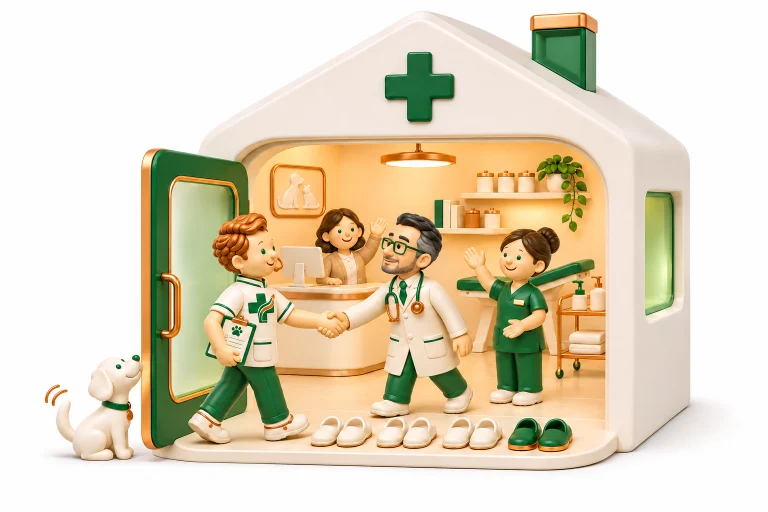
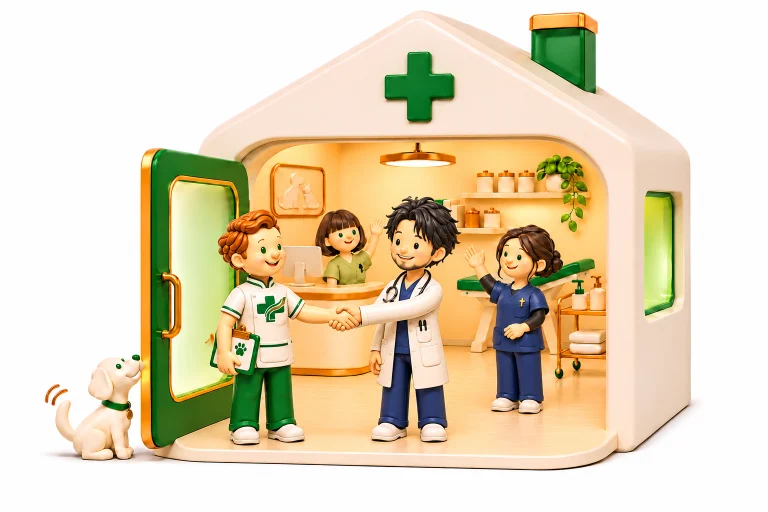
挿絵の人物を紹介動画の登場人物にそろえる（パズル・初出勤の朝・ビジョン・導入の流れ）

diff --git a/index.html b/index.html
@@ -255,7 +255,7 @@ body::before{content:"";position:fixed;inset:0 0 auto;height:env(safe-area-inset
 </section>
 
 <div id="after"></div>
-<section class="sec white"><div class="wrap"><div class="kick">Effect</div><h2>誰の、<em>何が減る</em>のか</h2><p class="intro">雑務が減れば、それぞれが本業に向き合えます。導入病院で実際に変わったことです。</p><div class="grid g3"><div class="box spot role r1"><div class="robj"><img src="assets/img/roles/vet.webp" alt="" width="180" height="180" loading="lazy"></div><div class="rhead"><span class="no">01</span><div class="who r1">Veterinarian</div></div><h3>獣医師</h3><p>話すだけでカルテと要点の下書き。健診や歯科の報告書の下書きができ、家でも仕上げられる。</p></div><div class="box spot role r2"><div class="robj"><img src="assets/img/roles/nurse.webp" alt="" width="180" height="180" loading="lazy"></div><div class="rhead"><span class="no">02</span><div class="who r2">Nurse</div></div><h3>動物看護師</h3><p>入院の記録と治療シートをタブレットで。電話の予約が減り、LINE へ案内できる。</p></div><div class="box spot role r3"><div class="robj"><img src="assets/img/roles/reception.webp" alt="" width="180" height="180" loading="lazy"></div><div class="rhead"><span class="no">03</span><div class="who r3">Reception</div></div><h3>受付</h3><p>予約表と電子カルテを別々に管理しない。来院の受付も同じ画面で。初診の登録は、来院前の LINE と問診で済んでいる。</p></div><div class="box spot role r4"><div class="robj"><img src="assets/img/roles/groomer.webp" alt="" width="180" height="180" loading="lazy"></div><div class="rhead"><span class="no">04</span><div class="who r4">Groomer</div></div><h3>トリマー</h3><p>ホテルの予約と預かりをアプリで管理。トリミング・ホテルの電話予約が減る。</p></div><div class="box spot role r5"><div class="robj"><img src="assets/img/roles/owner.webp" alt="" width="180" height="180" loading="lazy"></div><div class="rhead"><span class="no">05</span><div class="who r5">Owner</div></div><h3>飼い主さん</h3><p>LINE でいつでも予約できる。検査結果や手術の写真をマイページで受け取れる。</p></div><div class="box spot role r6"><div class="robj"><img src="assets/img/roles/director.webp" alt="" width="180" height="180" loading="lazy"></div><div class="rhead"><span class="no">06</span><div class="who r6">Director</div></div><h3>院長</h3><p>スタッフの勤怠の集計がアプリでできる。売上と経営の数字を画面で見られる。</p></div></div><a class="more" href="effect.html">導入の効果を詳しく見る</a></div></section><section class="sec "><div class="wrap"><div class="kick">Screens</div><h2>実際の画面を、<em>見てください</em></h2><p class="intro">導入病院で毎日使っている画面です。指で横に動かすか、上の名前を押すと切り替わります。</p><div class="tour"><div class="tabs" role="tablist"><span class="ink"></span><button type="button" role="tab" aria-selected="false">予約と受付</button><button type="button" role="tab" aria-selected="false">電子カルテ</button><button type="button" role="tab" aria-selected="false">音声カルテ</button><button type="button" role="tab" aria-selected="false">画像</button><button type="button" role="tab" aria-selected="false">飼い主さんへ</button><button type="button" role="tab" aria-selected="false">勤怠</button><button type="button" role="tab" aria-selected="false">在庫</button></div><div class="panes"><div class="pane" role="tabpanel"><div><div class="kick">予約と受付</div><h3>電話を取らずに、予約が埋まっていく</h3><p>飼い主さんが LINE から24時間予約。受ける内容と日にち・時間を選ぶだけで、病院の予約表に入ります。</p><span class="tagline">画面は見本のデータです</span></div><div class="shot"><div class="phone-f"><img src="assets/img/screens/v-book.webp" alt="予約と受付の画面" loading="lazy"></div></div></div><div class="pane" role="tabpanel"><div><div class="kick">電子カルテ</div><h3>1頭のすべてが、1画面に</h3><p>持病、体重の推移、ペット保険、予防の時期、トリマーからの申し送り。今日のカルテは録音から下書きでき、経過・検査・画像・書類は右側にまとまっています。</p><span class="tagline">見本の患者（ラマルク）</span></div><div class="shot"><div class="browser"><div class="bar"><i></i><i></i><i></i></div><img src="assets/img/screens/v-emr.webp" alt="電子カルテの画面" loading="lazy"></div></div></div><div class="pane" role="tabpanel"><div><div class="kick">音声カルテ</div><h3>話すだけで、カルテの下書き</h3><p>診察室で録音を押して話すだけ。AI が主訴・所見・計画に分けて下書きを作り、獣医師が確かめてからカルテに入れます。</p><span class="tagline">見本の患者（ラマルク）</span></div><div class="shot"><div class="browser"><div class="bar"><i></i><i></i><i></i></div><img src="assets/img/screens/v-rec.webp" alt="音声カルテの画面" loading="lazy"></div></div></div><div class="pane" role="tabpanel"><div><div class="kick">画像</div><h3>検査と手術の画像を、1頭ごとに</h3><p>1頭の画像が日付ごとにまとまります。レントゲン・エコー・CT・MRI・内視鏡・手術の写真を並べて見比べられ、そのまま飼い主さんにも見せられます。計測（長さ・角度・VHS）やコメントもその場で。</p><span class="tagline">見本のデータ（歯科の多い導入病院の例）</span></div><div class="shot"><div class="browser"><div class="bar"><i></i><i></i><i></i></div><img src="assets/img/screens/v-dv.webp" alt="画像の画面" loading="lazy"></div></div></div><div class="pane" role="tabpanel"><div><div class="kick">飼い主さんへ</div><h3>写真と結果を、マイページへ</h3><p>トリミングの仕上がりの写真や検査の結果を、飼い主さんのマイページへ。LINE に「届きました」とお知らせが届きます。</p><span class="tagline">見本のデータ</span></div><div class="shot"><div class="phone-f"><img src="assets/img/screens/v-album.webp" alt="飼い主さんへの画面" loading="lazy"></div></div></div><div class="pane" role="tabpanel"><div><div class="kick">勤怠</div><h3>カードをかざすだけで、出勤と退勤</h3><p>打刻は IC カードをかざすだけ。出勤と退勤の記録は、そのままアプリの中で集計されます。</p><span class="tagline">見本のデータ</span></div><div class="shot"><div class="browser"><div class="bar"><i></i><i></i><i></i></div><img src="assets/img/screens/v-kintai.webp" alt="勤怠の画面" loading="lazy"></div></div></div><div class="pane" role="tabpanel"><div><div class="kick">在庫</div><h3>在庫と発注を、タブレットで</h3><p>品目ごとの残数、足りなくなりそうな物、発注の記録をタブレットやスマホで確かめられます。</p><span class="tagline">見本のデータ</span></div><div class="shot"><div class="browser"><div class="bar"><i></i><i></i><i></i></div><img src="assets/img/screens/v-inv.webp" alt="在庫の画面" loading="lazy"></div></div></div></div></div><a class="more" href="system.html">しくみと機能をすべて見る</a></div></section><section class="sec band"><div class="wrap"><div class="kick">Evidence</div><h2>導入病院の記録で、<em>お見せします</em></h2><p class="intro">数字はすべて、代表が院長を務める導入病院の2026年の記録です。</p><div class="nums"><div class="num spot"><b><span data-to="731">731</span><small>件</small></b><span class="lbl">LINE からの予約</span><p>8〜10月の3か月。491世帯が利用し、うち91件ははじめての方の予約でした。</p></div><div class="num spot"><b><span data-to="45">45</span><small>秒</small></b><span class="lbl">音声カルテの手直し</span><p>録音から下書きができた後、確認してカルテへ移す手作業の中央値（10月の実測49件）。9月は239件の診察を音声カルテで記録。</p></div><div class="num spot"><b><span data-to="97">97</span><small>%</small></b><span class="lbl">健診結果の LINE の開封率</span><p>6〜10月に送った66件のうち、64件が開かれました。</p></div><div class="num spot"><b><span data-to="12">12</span><small>件/日</small></b><span class="lbl">昼休みの電話に自動で応答</span><p>9月前半の15日間で180件。休憩中のスタッフが電話に出なくて済みます（付帯サービスで、月額とは別料金）。</p></div><div class="num spot"><b><span data-to="6.5">6.5</span><small>万円/月</small></b><span class="lbl">やめられた外部サービス</span><p>予約システムと電話の自動応答を置き換え、年に約78万円の契約をやめました。</p></div><div class="num spot"><b><span data-to="267">267</span><small>万件</small></b><span class="lbl">11年分の診療明細を移行</span><p>飼い主さんとペットの登録だけでなく、診療の記録ごと自前の仕組みへ移しました。</p></div></div></div></section><section class="sec white"><div class="wrap"><div class="kick">Only Lamarck</div><h2>システムが、<em>病院に合わせて育つ</em>。</h2><div class="split"><div><div class="list"><div class="box spot"><h3 class="ih"><svg class="ico" aria-hidden="true" xmlns="http://www.w3.org/2000/svg" width="24" height="24" viewBox="0 0 24 24" fill="none" stroke="currentColor" stroke-width="1.75" stroke-linecap="round" stroke-linejoin="round" ><path d="M10 13a5 5 0 0 0 7.54.54l3-3a5 5 0 0 0-7.07-7.07l-1.72 1.71" /><path d="M14 11a5 5 0 0 0-7.54-.54l-3 3a5 5 0 0 0 7.07 7.07l1.71-1.71" /></svg>1本につながる</h3><p>予約・問診・カルテ・報告書・LINE・勤怠が、1つの仕組みの中でつながっています。同じ情報を何度も打ち直しません。</p></div><div class="box spot hl"><h3 class="ih"><svg class="ico" aria-hidden="true" xmlns="http://www.w3.org/2000/svg" width="24" height="24" viewBox="0 0 24 24" fill="none" stroke="currentColor" stroke-width="1.75" stroke-linecap="round" stroke-linejoin="round" ><path d="M14 9.536V7a4 4 0 0 1 4-4h1.5a.5.5 0 0 1 .5.5V5a4 4 0 0 1-4 4 4 4 0 0 0-4 4c0 2 1 3 1 5a5 5 0 0 1-1 3" /><path d="M4 9a5 5 0 0 1 8 4 5 5 0 0 1-8-4" /><path d="M5 21h14" /></svg>病院に合わせて育つ</h3><p>「ここが不便」と書けば、数日で画面が変わります。システムを覚えるのではなく、システムが病院に合っていきます。</p></div><div class="box spot"><h3 class="ih"><svg class="ico" aria-hidden="true" xmlns="http://www.w3.org/2000/svg" width="24" height="24" viewBox="0 0 24 24" fill="none" stroke="currentColor" stroke-width="1.75" stroke-linecap="round" stroke-linejoin="round" ><path d="M11 2v2" /><path d="M5 2v2" /><path d="M5 3H4a2 2 0 0 0-2 2v4a6 6 0 0 0 12 0V5a2 2 0 0 0-2-2h-1" /><path d="M8 15a6 6 0 0 0 12 0v-3" /><circle cx="20" cy="10" r="2" /></svg>獣医師が、毎日使って作っている</h3><p>代表は現役の獣医師。院長を務める動物病院で毎日使いながら作っています。現場の「困った」がそのまま機能になります。</p></div></div></div><div class="ill"><img src="assets/img/ill/grow.webp" alt="" loading="lazy" width="768" height="512"></div></div><a class="more" href="system.html">育つしくみを見る</a></div></section><section class="sec mint"><div class="wrap"><div class="kick">Partner</div><h2>ラマルクを、病院の<em>パートナー</em>に</h2><p class="intro">ラマルクは、受付・看護・事務・情報システムの担当が分け持っていた仕事を、毎日こなしています。</p><div class="tasks"><span class="task"><svg class="ico" aria-hidden="true" xmlns="http://www.w3.org/2000/svg" width="24" height="24" viewBox="0 0 24 24" fill="none" stroke="currentColor" stroke-width="1.75" stroke-linecap="round" stroke-linejoin="round" ><path d="M8 2v3" /><path d="M16 2v3" /><rect x="3" y="3" width="18" height="18" rx="2" /><path d="M3 9h18" /><path d="m9 15 2 2 4-4" /></svg>24時間の予約受付</span><span class="task"><svg class="ico" aria-hidden="true" xmlns="http://www.w3.org/2000/svg" width="24" height="24" viewBox="0 0 24 24" fill="none" stroke="currentColor" stroke-width="1.75" stroke-linecap="round" stroke-linejoin="round" ><path d="M10.268 21a2 2 0 0 0 3.464 0" /><path d="M3.262 15.326A1 1 0 0 0 4 17h16a1 1 0 0 0 .74-1.673C19.41 13.956 18 12.499 18 8A6 6 0 0 0 6 8c0 4.499-1.411 5.956-2.738 7.326" /></svg>前日のお知らせ</span><span class="task"><svg class="ico" aria-hidden="true" xmlns="http://www.w3.org/2000/svg" width="24" height="24" viewBox="0 0 24 24" fill="none" stroke="currentColor" stroke-width="1.75" stroke-linecap="round" stroke-linejoin="round" ><rect width="8" height="4" x="8" y="2" rx="1" ry="1" /><path d="M16 4h2a2 2 0 0 1 2 2v14a2 2 0 0 1-2 2H6a2 2 0 0 1-2-2V6a2 2 0 0 1 2-2h2" /><path d="M12 11h4" /><path d="M12 16h4" /><path d="M8 11h.01" /><path d="M8 16h.01" /></svg>問診の受け取り</span><span class="task"><svg class="ico" aria-hidden="true" xmlns="http://www.w3.org/2000/svg" width="24" height="24" viewBox="0 0 24 24" fill="none" stroke="currentColor" stroke-width="1.75" stroke-linecap="round" stroke-linejoin="round" ><path d="M12 19v3" /><path d="M19 10v2a7 7 0 0 1-14 0v-2" /><rect x="9" y="2" width="6" height="13" rx="3" /></svg>カルテの下書き</span><span class="task"><svg class="ico" aria-hidden="true" xmlns="http://www.w3.org/2000/svg" width="24" height="24" viewBox="0 0 24 24" fill="none" stroke="currentColor" stroke-width="1.75" stroke-linecap="round" stroke-linejoin="round" ><path d="M12 5v16" /><path d="M20.001 19A2 2 0 0022 17V5a2 2 0 00-1.999-2L16 3.002A5 5 0 0012 5a5 5 0 00-4-2H4a2 2 0 00-2 2v12a2 2 0 001.999 2H8a5 5 0 014 2 5 5 0 014-2z" /></svg>報告書の下書き</span><span class="task"><svg class="ico" aria-hidden="true" xmlns="http://www.w3.org/2000/svg" width="24" height="24" viewBox="0 0 24 24" fill="none" stroke="currentColor" stroke-width="1.75" stroke-linecap="round" stroke-linejoin="round" ><path d="M2.992 16.342a2 2 0 0 1 .094 1.167l-1.065 3.29a1 1 0 0 0 1.236 1.168l3.413-.998a2 2 0 0 1 1.099.092 10 10 0 1 0-4.777-4.719" /><path d="M7.828 13.07A3 3 0 0 1 12 8.764a3 3 0 0 1 5.004 2.224 3 3 0 0 1-.832 2.083l-3.447 3.62a1 1 0 0 1-1.45-.001z" /></svg>結果の LINE 送信</span><span class="task"><svg class="ico" aria-hidden="true" xmlns="http://www.w3.org/2000/svg" width="24" height="24" viewBox="0 0 24 24" fill="none" stroke="currentColor" stroke-width="1.75" stroke-linecap="round" stroke-linejoin="round" ><path d="M5 21v-6" /><path d="M12 21V9" /><path d="M19 21V3" /></svg>勤怠の集計</span><span class="task"><svg class="ico" aria-hidden="true" xmlns="http://www.w3.org/2000/svg" width="24" height="24" viewBox="0 0 24 24" fill="none" stroke="currentColor" stroke-width="1.75" stroke-linecap="round" stroke-linejoin="round" ><path d="M11 21.73a2 2 0 0 0 2 0l7-4A2 2 0 0 0 21 16V8a2 2 0 0 0-1-1.73l-7-4a2 2 0 0 0-2 0l-7 4A2 2 0 0 0 3 8v8a2 2 0 0 0 1 1.73z" /><path d="M12 22V12" /><polyline points="3.29 7 12 12 20.71 7" /><path d="m7.5 4.27 9 5.15" /></svg>在庫の記録</span><span class="task"><svg class="ico" aria-hidden="true" xmlns="http://www.w3.org/2000/svg" width="24" height="24" viewBox="0 0 24 24" fill="none" stroke="currentColor" stroke-width="1.75" stroke-linecap="round" stroke-linejoin="round" ><rect width="18" height="11" x="3" y="11" rx="2" ry="2" /><path d="M7 11V7a5 5 0 0 1 10 0v4" /></svg>毎日の見張りとバックアップ</span><span class="task"><svg class="ico" aria-hidden="true" xmlns="http://www.w3.org/2000/svg" width="24" height="24" viewBox="0 0 24 24" fill="none" stroke="currentColor" stroke-width="1.75" stroke-linecap="round" stroke-linejoin="round" ><path d="M14 9.536V7a4 4 0 0 1 4-4h1.5a.5.5 0 0 1 .5.5V5a4 4 0 0 1-4 4 4 4 0 0 0-4 4c0 2 1 3 1 5a5 5 0 0 1-1 3" /><path d="M4 9a5 5 0 0 1 8 4 5 5 0 0 1-8-4" /><path d="M5 21h14" /></svg>「ここが不便」の改善</span></div><a class="more" href="price.html">導入と費用を見る</a></div></section><section class="sec white"><div class="wrap"><div class="kick">Trust</div><h2>不安には、<em>仕組みで</em>お答えします</h2><div class="split rev"><div><div class="list"><div class="box spot"><h3 class="ih"><svg class="ico" aria-hidden="true" xmlns="http://www.w3.org/2000/svg" width="24" height="24" viewBox="0 0 24 24" fill="none" stroke="currentColor" stroke-width="1.75" stroke-linecap="round" stroke-linejoin="round" ><path d="M2 9V5a2 2 0 0 1 2-2h3.9a2 2 0 0 1 1.69.9l.81 1.2a2 2 0 0 0 1.67.9H20a2 2 0 0 1 2 2v10a2 2 0 0 1-2 2H4a2 2 0 0 1-2-2v-1" /><path d="M2 13h10" /><path d="m9 16 3-3-3-3" /></svg>データ移行はこちらで</h3><p>今のシステムから移す作業は私たちが行います。方法は医院ごとに確認してからご案内します。</p></div><div class="box spot"><h3 class="ih"><svg class="ico" aria-hidden="true" xmlns="http://www.w3.org/2000/svg" width="24" height="24" viewBox="0 0 24 24" fill="none" stroke="currentColor" stroke-width="1.75" stroke-linecap="round" stroke-linejoin="round" ><path d="M10 12h4" /><path d="M10 8h4" /><path d="M14 21v-3a2 2 0 0 0-4 0v3" /><path d="M6 10H4a2 2 0 0 0-2 2v7a2 2 0 0 0 2 2h16a2 2 0 0 0 2-2V9a2 2 0 0 0-2-2h-2" /><path d="M6 21V5a2 2 0 0 1 2-2h8a2 2 0 0 1 2 2v16" /></svg>医院ごとの区画と、小さな中継機</h3><p>本体はクラウドの医院ごとの区画に。院内には、検査機器やレントゲンとつなぐ小さな中継機だけ。解約時はデータを無料でお返しします。</p></div><div class="box spot"><h3 class="ih"><svg class="ico" aria-hidden="true" xmlns="http://www.w3.org/2000/svg" width="24" height="24" viewBox="0 0 24 24" fill="none" stroke="currentColor" stroke-width="1.75" stroke-linecap="round" stroke-linejoin="round" ><path d="M13 22h5a2 2 0 0 0 2-2V8a2.4 2.4 0 0 0-.706-1.706l-3.588-3.588A2.4 2.4 0 0 0 14 2H6a2 2 0 0 0-2 2v3.3" /><path d="M14 2v5a1 1 0 0 0 1 1h5" /><path d="m7.69 16.479 1.29 4.88a.5.5 0 0 1-.698.591l-1.843-.849a1 1 0 0 0-.879.001l-1.846.85a.5.5 0 0 1-.692-.593l1.29-4.88" /><circle cx="6" cy="14" r="3" /></svg>特許出願中・ISMS 取得準備中</h3><p>仕組みの特許を出願し、情報セキュリティの国際規格の取得を進めています。</p></div></div></div><div class="ill"><img src="assets/img/ill/trust.webp" alt="" loading="lazy" width="768" height="512"></div></div><a class="more" href="trust.html">安心の仕組みを見る</a></div></section><section class="sec "><div class="wrap"><div class="kick">Getting started</div><h2>一歩目は、<em>一緒に</em></h2><p class="intro">全部を一度に入れ替えることは勧めていません。今の仕組みと並べて動かし、確かめてから切り替えます。</p><ol class="timeline"><li><i>01</i><b>資料請求</b><p>LINE で病院名と院長名を</p></li><li><i>02</i><b>画面のデモ</b><p>架空のデータで実際の画面を</p></li><li><i>03</i><b>無料でお試し</b><p>困っている所から1つか2つ</p></li><li><i>04</i><b>契約とデータ移行</b><p>移す作業はこちらで</p></li><li><i>05</i><b>並べて切り替え</b><p>切り替え後2週間は毎日様子を</p></li></ol><a class="more" href="flow.html">導入の流れを見る</a></div></section><section class="sec white"><div class="wrap"><div class="kick">Vision</div><h2>ひとつの病院の工夫を、<em>すべての病院の力に</em></h2><div class="split"><div><p class="intro" style="margin-top:0">ラマルクを使う医院が増えるほど、できることが広がります。紹介状が検査値と画像ごと届く病院どうしの連携、飼い主さんの手もとの健康手帳、そして地域と医療へ。私たちが描いている構想です。</p></div><div class="ill"><img src="assets/img/ill/evolve.webp" alt="" loading="lazy" width="768" height="512"></div></div><a class="more" href="vision.html">理念と未来像を見る</a></div></section><section class="sec "><div class="wrap"><div class="kick">FAQ</div><h2>よくある質問</h2><div class="faq"><details><summary>今のカルテのデータは移せますか？</summary><p>移す作業はこちらで行います。今お使いのシステムによって取り出せる範囲が違うため、方法は医院さまごとに確認してからご案内します。導入病院では11年分・267万件の診療明細を移しました。</p></details><details><summary>パソコンが得意ではありません。使いこなせますか？</summary><p>システムを覚えていただくより、システムを病院に合わせる考え方で作っています。全部を一度に入れる必要はなく、困っている所から始められます。「ここが不便」と書いていただければ、画面のほうを直します。カルテは話すだけで下書きができ、予約は飼い主さんが LINE で入れます。</p></details><details><summary>要望はどのくらいで反映されますか？</summary><p>小さな改善は数日を目安に試作します。範囲と順番は院長先生と相談して決め、院長先生の承認なしに本番へ入れることはありません。</p></details><details><summary>インターネットが切れたら診療は止まりますか？</summary><p>予備のモバイル回線への切り替え、院内の中継機に置いた大事な記録の控え、紙で診療を続ける手順の3つを標準で用意します。</p></details><details><summary>AI が勝手にカルテを書きませんか？</summary><p>書きません。AI が作るのは下書きだけで、獣医師が画面で確認して確定するまでカルテには入りません。話していない臨床内容を足さない決まりも AI に組み込んでいます。</p></details></div><a class="more" href="faq.html">よくある質問をすべて見る</a></div></section><section class="sec"><div class="wrap"><div class="cta-band">
+<section class="sec white"><div class="wrap"><div class="kick">Effect</div><h2>誰の、<em>何が減る</em>のか</h2><p class="intro">雑務が減れば、それぞれが本業に向き合えます。導入病院で実際に変わったことです。</p><div class="grid g3"><div class="box spot role r1"><div class="robj"><img src="assets/img/roles/vet.webp" alt="" width="180" height="180" loading="lazy"></div><div class="rhead"><span class="no">01</span><div class="who r1">Veterinarian</div></div><h3>獣医師</h3><p>話すだけでカルテと要点の下書き。健診や歯科の報告書の下書きができ、家でも仕上げられる。</p></div><div class="box spot role r2"><div class="robj"><img src="assets/img/roles/nurse.webp" alt="" width="180" height="180" loading="lazy"></div><div class="rhead"><span class="no">02</span><div class="who r2">Nurse</div></div><h3>動物看護師</h3><p>入院の記録と治療シートをタブレットで。電話の予約が減り、LINE へ案内できる。</p></div><div class="box spot role r3"><div class="robj"><img src="assets/img/roles/reception.webp" alt="" width="180" height="180" loading="lazy"></div><div class="rhead"><span class="no">03</span><div class="who r3">Reception</div></div><h3>受付</h3><p>予約表と電子カルテを別々に管理しない。来院の受付も同じ画面で。初診の登録は、来院前の LINE と問診で済んでいる。</p></div><div class="box spot role r4"><div class="robj"><img src="assets/img/roles/groomer.webp" alt="" width="180" height="180" loading="lazy"></div><div class="rhead"><span class="no">04</span><div class="who r4">Groomer</div></div><h3>トリマー</h3><p>ホテルの予約と預かりをアプリで管理。トリミング・ホテルの電話予約が減る。</p></div><div class="box spot role r5"><div class="robj"><img src="assets/img/roles/owner.webp" alt="" width="180" height="180" loading="lazy"></div><div class="rhead"><span class="no">05</span><div class="who r5">Owner</div></div><h3>飼い主さん</h3><p>LINE でいつでも予約できる。検査結果や手術の写真をマイページで受け取れる。</p></div><div class="box spot role r6"><div class="robj"><img src="assets/img/roles/director.webp" alt="" width="180" height="180" loading="lazy"></div><div class="rhead"><span class="no">06</span><div class="who r6">Director</div></div><h3>院長</h3><p>スタッフの勤怠の集計がアプリでできる。売上と経営の数字を画面で見られる。</p></div></div><a class="more" href="effect.html">導入の効果を詳しく見る</a></div></section><section class="sec "><div class="wrap"><div class="kick">Screens</div><h2>実際の画面を、<em>見てください</em></h2><p class="intro">導入病院で毎日使っている画面です。指で横に動かすか、上の名前を押すと切り替わります。</p><div class="tour"><div class="tabs" role="tablist"><span class="ink"></span><button type="button" role="tab" aria-selected="false">予約と受付</button><button type="button" role="tab" aria-selected="false">電子カルテ</button><button type="button" role="tab" aria-selected="false">音声カルテ</button><button type="button" role="tab" aria-selected="false">画像</button><button type="button" role="tab" aria-selected="false">飼い主さんへ</button><button type="button" role="tab" aria-selected="false">勤怠</button><button type="button" role="tab" aria-selected="false">在庫</button></div><div class="panes"><div class="pane" role="tabpanel"><div><div class="kick">予約と受付</div><h3>電話を取らずに、予約が埋まっていく</h3><p>飼い主さんが LINE から24時間予約。受ける内容と日にち・時間を選ぶだけで、病院の予約表に入ります。</p><span class="tagline">画面は見本のデータです</span></div><div class="shot"><div class="phone-f"><img src="assets/img/screens/v-book.webp" alt="予約と受付の画面" loading="lazy"></div></div></div><div class="pane" role="tabpanel"><div><div class="kick">電子カルテ</div><h3>1頭のすべてが、1画面に</h3><p>持病、体重の推移、ペット保険、予防の時期、トリマーからの申し送り。今日のカルテは録音から下書きでき、経過・検査・画像・書類は右側にまとまっています。</p><span class="tagline">見本の患者（ラマルク）</span></div><div class="shot"><div class="browser"><div class="bar"><i></i><i></i><i></i></div><img src="assets/img/screens/v-emr.webp" alt="電子カルテの画面" loading="lazy"></div></div></div><div class="pane" role="tabpanel"><div><div class="kick">音声カルテ</div><h3>話すだけで、カルテの下書き</h3><p>診察室で録音を押して話すだけ。AI が主訴・所見・計画に分けて下書きを作り、獣医師が確かめてからカルテに入れます。</p><span class="tagline">見本の患者（ラマルク）</span></div><div class="shot"><div class="browser"><div class="bar"><i></i><i></i><i></i></div><img src="assets/img/screens/v-rec.webp" alt="音声カルテの画面" loading="lazy"></div></div></div><div class="pane" role="tabpanel"><div><div class="kick">画像</div><h3>検査と手術の画像を、1頭ごとに</h3><p>1頭の画像が日付ごとにまとまります。レントゲン・エコー・CT・MRI・内視鏡・手術の写真を並べて見比べられ、そのまま飼い主さんにも見せられます。計測（長さ・角度・VHS）やコメントもその場で。</p><span class="tagline">見本のデータ（歯科の多い導入病院の例）</span></div><div class="shot"><div class="browser"><div class="bar"><i></i><i></i><i></i></div><img src="assets/img/screens/v-dv.webp" alt="画像の画面" loading="lazy"></div></div></div><div class="pane" role="tabpanel"><div><div class="kick">飼い主さんへ</div><h3>写真と結果を、マイページへ</h3><p>トリミングの仕上がりの写真や検査の結果を、飼い主さんのマイページへ。LINE に「届きました」とお知らせが届きます。</p><span class="tagline">見本のデータ</span></div><div class="shot"><div class="phone-f"><img src="assets/img/screens/v-album.webp" alt="飼い主さんへの画面" loading="lazy"></div></div></div><div class="pane" role="tabpanel"><div><div class="kick">勤怠</div><h3>カードをかざすだけで、出勤と退勤</h3><p>打刻は IC カードをかざすだけ。出勤と退勤の記録は、そのままアプリの中で集計されます。</p><span class="tagline">見本のデータ</span></div><div class="shot"><div class="browser"><div class="bar"><i></i><i></i><i></i></div><img src="assets/img/screens/v-kintai.webp" alt="勤怠の画面" loading="lazy"></div></div></div><div class="pane" role="tabpanel"><div><div class="kick">在庫</div><h3>在庫と発注を、タブレットで</h3><p>品目ごとの残数、足りなくなりそうな物、発注の記録をタブレットやスマホで確かめられます。</p><span class="tagline">見本のデータ</span></div><div class="shot"><div class="browser"><div class="bar"><i></i><i></i><i></i></div><img src="assets/img/screens/v-inv.webp" alt="在庫の画面" loading="lazy"></div></div></div></div></div><a class="more" href="system.html">しくみと機能をすべて見る</a></div></section><section class="sec band"><div class="wrap"><div class="kick">Evidence</div><h2>導入病院の記録で、<em>お見せします</em></h2><p class="intro">数字はすべて、代表が院長を務める導入病院の2026年の記録です。</p><div class="nums"><div class="num spot"><b><span data-to="731">731</span><small>件</small></b><span class="lbl">LINE からの予約</span><p>8〜10月の3か月。491世帯が利用し、うち91件ははじめての方の予約でした。</p></div><div class="num spot"><b><span data-to="45">45</span><small>秒</small></b><span class="lbl">音声カルテの手直し</span><p>録音から下書きができた後、確認してカルテへ移す手作業の中央値（10月の実測49件）。9月は239件の診察を音声カルテで記録。</p></div><div class="num spot"><b><span data-to="97">97</span><small>%</small></b><span class="lbl">健診結果の LINE の開封率</span><p>6〜10月に送った66件のうち、64件が開かれました。</p></div><div class="num spot"><b><span data-to="12">12</span><small>件/日</small></b><span class="lbl">昼休みの電話に自動で応答</span><p>9月前半の15日間で180件。休憩中のスタッフが電話に出なくて済みます（付帯サービスで、月額とは別料金）。</p></div><div class="num spot"><b><span data-to="6.5">6.5</span><small>万円/月</small></b><span class="lbl">やめられた外部サービス</span><p>予約システムと電話の自動応答を置き換え、年に約78万円の契約をやめました。</p></div><div class="num spot"><b><span data-to="267">267</span><small>万件</small></b><span class="lbl">11年分の診療明細を移行</span><p>飼い主さんとペットの登録だけでなく、診療の記録ごと自前の仕組みへ移しました。</p></div></div></div></section><section class="sec white"><div class="wrap"><div class="kick">Only Lamarck</div><h2>システムが、<em>病院に合わせて育つ</em>。</h2><div class="split"><div><div class="list"><div class="box spot"><h3 class="ih"><svg class="ico" aria-hidden="true" xmlns="http://www.w3.org/2000/svg" width="24" height="24" viewBox="0 0 24 24" fill="none" stroke="currentColor" stroke-width="1.75" stroke-linecap="round" stroke-linejoin="round" ><path d="M10 13a5 5 0 0 0 7.54.54l3-3a5 5 0 0 0-7.07-7.07l-1.72 1.71" /><path d="M14 11a5 5 0 0 0-7.54-.54l-3 3a5 5 0 0 0 7.07 7.07l1.71-1.71" /></svg>1本につながる</h3><p>予約・問診・カルテ・報告書・LINE・勤怠が、1つの仕組みの中でつながっています。同じ情報を何度も打ち直しません。</p></div><div class="box spot hl"><h3 class="ih"><svg class="ico" aria-hidden="true" xmlns="http://www.w3.org/2000/svg" width="24" height="24" viewBox="0 0 24 24" fill="none" stroke="currentColor" stroke-width="1.75" stroke-linecap="round" stroke-linejoin="round" ><path d="M14 9.536V7a4 4 0 0 1 4-4h1.5a.5.5 0 0 1 .5.5V5a4 4 0 0 1-4 4 4 4 0 0 0-4 4c0 2 1 3 1 5a5 5 0 0 1-1 3" /><path d="M4 9a5 5 0 0 1 8 4 5 5 0 0 1-8-4" /><path d="M5 21h14" /></svg>病院に合わせて育つ</h3><p>「ここが不便」と書けば、数日で画面が変わります。システムを覚えるのではなく、システムが病院に合っていきます。</p></div><div class="box spot"><h3 class="ih"><svg class="ico" aria-hidden="true" xmlns="http://www.w3.org/2000/svg" width="24" height="24" viewBox="0 0 24 24" fill="none" stroke="currentColor" stroke-width="1.75" stroke-linecap="round" stroke-linejoin="round" ><path d="M11 2v2" /><path d="M5 2v2" /><path d="M5 3H4a2 2 0 0 0-2 2v4a6 6 0 0 0 12 0V5a2 2 0 0 0-2-2h-1" /><path d="M8 15a6 6 0 0 0 12 0v-3" /><circle cx="20" cy="10" r="2" /></svg>獣医師が、毎日使って作っている</h3><p>代表は現役の獣医師。院長を務める動物病院で毎日使いながら作っています。現場の「困った」がそのまま機能になります。</p></div></div></div><div class="ill"><img src="assets/img/ill/puzzle.webp" alt="" loading="lazy" width="768" height="512"></div></div><a class="more" href="system.html">育つしくみを見る</a></div></section><section class="sec mint"><div class="wrap"><div class="kick">Partner</div><h2>ラマルクを、病院の<em>パートナー</em>に</h2><p class="intro">ラマルクは、受付・看護・事務・情報システムの担当が分け持っていた仕事を、毎日こなしています。</p><div class="tasks"><span class="task"><svg class="ico" aria-hidden="true" xmlns="http://www.w3.org/2000/svg" width="24" height="24" viewBox="0 0 24 24" fill="none" stroke="currentColor" stroke-width="1.75" stroke-linecap="round" stroke-linejoin="round" ><path d="M8 2v3" /><path d="M16 2v3" /><rect x="3" y="3" width="18" height="18" rx="2" /><path d="M3 9h18" /><path d="m9 15 2 2 4-4" /></svg>24時間の予約受付</span><span class="task"><svg class="ico" aria-hidden="true" xmlns="http://www.w3.org/2000/svg" width="24" height="24" viewBox="0 0 24 24" fill="none" stroke="currentColor" stroke-width="1.75" stroke-linecap="round" stroke-linejoin="round" ><path d="M10.268 21a2 2 0 0 0 3.464 0" /><path d="M3.262 15.326A1 1 0 0 0 4 17h16a1 1 0 0 0 .74-1.673C19.41 13.956 18 12.499 18 8A6 6 0 0 0 6 8c0 4.499-1.411 5.956-2.738 7.326" /></svg>前日のお知らせ</span><span class="task"><svg class="ico" aria-hidden="true" xmlns="http://www.w3.org/2000/svg" width="24" height="24" viewBox="0 0 24 24" fill="none" stroke="currentColor" stroke-width="1.75" stroke-linecap="round" stroke-linejoin="round" ><rect width="8" height="4" x="8" y="2" rx="1" ry="1" /><path d="M16 4h2a2 2 0 0 1 2 2v14a2 2 0 0 1-2 2H6a2 2 0 0 1-2-2V6a2 2 0 0 1 2-2h2" /><path d="M12 11h4" /><path d="M12 16h4" /><path d="M8 11h.01" /><path d="M8 16h.01" /></svg>問診の受け取り</span><span class="task"><svg class="ico" aria-hidden="true" xmlns="http://www.w3.org/2000/svg" width="24" height="24" viewBox="0 0 24 24" fill="none" stroke="currentColor" stroke-width="1.75" stroke-linecap="round" stroke-linejoin="round" ><path d="M12 19v3" /><path d="M19 10v2a7 7 0 0 1-14 0v-2" /><rect x="9" y="2" width="6" height="13" rx="3" /></svg>カルテの下書き</span><span class="task"><svg class="ico" aria-hidden="true" xmlns="http://www.w3.org/2000/svg" width="24" height="24" viewBox="0 0 24 24" fill="none" stroke="currentColor" stroke-width="1.75" stroke-linecap="round" stroke-linejoin="round" ><path d="M12 5v16" /><path d="M20.001 19A2 2 0 0022 17V5a2 2 0 00-1.999-2L16 3.002A5 5 0 0012 5a5 5 0 00-4-2H4a2 2 0 00-2 2v12a2 2 0 001.999 2H8a5 5 0 014 2 5 5 0 014-2z" /></svg>報告書の下書き</span><span class="task"><svg class="ico" aria-hidden="true" xmlns="http://www.w3.org/2000/svg" width="24" height="24" viewBox="0 0 24 24" fill="none" stroke="currentColor" stroke-width="1.75" stroke-linecap="round" stroke-linejoin="round" ><path d="M2.992 16.342a2 2 0 0 1 .094 1.167l-1.065 3.29a1 1 0 0 0 1.236 1.168l3.413-.998a2 2 0 0 1 1.099.092 10 10 0 1 0-4.777-4.719" /><path d="M7.828 13.07A3 3 0 0 1 12 8.764a3 3 0 0 1 5.004 2.224 3 3 0 0 1-.832 2.083l-3.447 3.62a1 1 0 0 1-1.45-.001z" /></svg>結果の LINE 送信</span><span class="task"><svg class="ico" aria-hidden="true" xmlns="http://www.w3.org/2000/svg" width="24" height="24" viewBox="0 0 24 24" fill="none" stroke="currentColor" stroke-width="1.75" stroke-linecap="round" stroke-linejoin="round" ><path d="M5 21v-6" /><path d="M12 21V9" /><path d="M19 21V3" /></svg>勤怠の集計</span><span class="task"><svg class="ico" aria-hidden="true" xmlns="http://www.w3.org/2000/svg" width="24" height="24" viewBox="0 0 24 24" fill="none" stroke="currentColor" stroke-width="1.75" stroke-linecap="round" stroke-linejoin="round" ><path d="M11 21.73a2 2 0 0 0 2 0l7-4A2 2 0 0 0 21 16V8a2 2 0 0 0-1-1.73l-7-4a2 2 0 0 0-2 0l-7 4A2 2 0 0 0 3 8v8a2 2 0 0 0 1 1.73z" /><path d="M12 22V12" /><polyline points="3.29 7 12 12 20.71 7" /><path d="m7.5 4.27 9 5.15" /></svg>在庫の記録</span><span class="task"><svg class="ico" aria-hidden="true" xmlns="http://www.w3.org/2000/svg" width="24" height="24" viewBox="0 0 24 24" fill="none" stroke="currentColor" stroke-width="1.75" stroke-linecap="round" stroke-linejoin="round" ><rect width="18" height="11" x="3" y="11" rx="2" ry="2" /><path d="M7 11V7a5 5 0 0 1 10 0v4" /></svg>毎日の見張りとバックアップ</span><span class="task"><svg class="ico" aria-hidden="true" xmlns="http://www.w3.org/2000/svg" width="24" height="24" viewBox="0 0 24 24" fill="none" stroke="currentColor" stroke-width="1.75" stroke-linecap="round" stroke-linejoin="round" ><path d="M14 9.536V7a4 4 0 0 1 4-4h1.5a.5.5 0 0 1 .5.5V5a4 4 0 0 1-4 4 4 4 0 0 0-4 4c0 2 1 3 1 5a5 5 0 0 1-1 3" /><path d="M4 9a5 5 0 0 1 8 4 5 5 0 0 1-8-4" /><path d="M5 21h14" /></svg>「ここが不便」の改善</span></div><a class="more" href="price.html">導入と費用を見る</a></div></section><section class="sec white"><div class="wrap"><div class="kick">Trust</div><h2>不安には、<em>仕組みで</em>お答えします</h2><div class="split rev"><div><div class="list"><div class="box spot"><h3 class="ih"><svg class="ico" aria-hidden="true" xmlns="http://www.w3.org/2000/svg" width="24" height="24" viewBox="0 0 24 24" fill="none" stroke="currentColor" stroke-width="1.75" stroke-linecap="round" stroke-linejoin="round" ><path d="M2 9V5a2 2 0 0 1 2-2h3.9a2 2 0 0 1 1.69.9l.81 1.2a2 2 0 0 0 1.67.9H20a2 2 0 0 1 2 2v10a2 2 0 0 1-2 2H4a2 2 0 0 1-2-2v-1" /><path d="M2 13h10" /><path d="m9 16 3-3-3-3" /></svg>データ移行はこちらで</h3><p>今のシステムから移す作業は私たちが行います。方法は医院ごとに確認してからご案内します。</p></div><div class="box spot"><h3 class="ih"><svg class="ico" aria-hidden="true" xmlns="http://www.w3.org/2000/svg" width="24" height="24" viewBox="0 0 24 24" fill="none" stroke="currentColor" stroke-width="1.75" stroke-linecap="round" stroke-linejoin="round" ><path d="M10 12h4" /><path d="M10 8h4" /><path d="M14 21v-3a2 2 0 0 0-4 0v3" /><path d="M6 10H4a2 2 0 0 0-2 2v7a2 2 0 0 0 2 2h16a2 2 0 0 0 2-2V9a2 2 0 0 0-2-2h-2" /><path d="M6 21V5a2 2 0 0 1 2-2h8a2 2 0 0 1 2 2v16" /></svg>医院ごとの区画と、小さな中継機</h3><p>本体はクラウドの医院ごとの区画に。院内には、検査機器やレントゲンとつなぐ小さな中継機だけ。解約時はデータを無料でお返しします。</p></div><div class="box spot"><h3 class="ih"><svg class="ico" aria-hidden="true" xmlns="http://www.w3.org/2000/svg" width="24" height="24" viewBox="0 0 24 24" fill="none" stroke="currentColor" stroke-width="1.75" stroke-linecap="round" stroke-linejoin="round" ><path d="M13 22h5a2 2 0 0 0 2-2V8a2.4 2.4 0 0 0-.706-1.706l-3.588-3.588A2.4 2.4 0 0 0 14 2H6a2 2 0 0 0-2 2v3.3" /><path d="M14 2v5a1 1 0 0 0 1 1h5" /><path d="m7.69 16.479 1.29 4.88a.5.5 0 0 1-.698.591l-1.843-.849a1 1 0 0 0-.879.001l-1.846.85a.5.5 0 0 1-.692-.593l1.29-4.88" /><circle cx="6" cy="14" r="3" /></svg>特許出願中・ISMS 取得準備中</h3><p>仕組みの特許を出願し、情報セキュリティの国際規格の取得を進めています。</p></div></div></div><div class="ill"><img src="assets/img/ill/trust.webp" alt="" loading="lazy" width="768" height="512"></div></div><a class="more" href="trust.html">安心の仕組みを見る</a></div></section><section class="sec "><div class="wrap"><div class="kick">Getting started</div><h2>一歩目は、<em>一緒に</em></h2><p class="intro">全部を一度に入れ替えることは勧めていません。今の仕組みと並べて動かし、確かめてから切り替えます。</p><ol class="timeline"><li><i>01</i><b>資料請求</b><p>LINE で病院名と院長名を</p></li><li><i>02</i><b>画面のデモ</b><p>架空のデータで実際の画面を</p></li><li><i>03</i><b>無料でお試し</b><p>困っている所から1つか2つ</p></li><li><i>04</i><b>契約とデータ移行</b><p>移す作業はこちらで</p></li><li><i>05</i><b>並べて切り替え</b><p>切り替え後2週間は毎日様子を</p></li></ol><a class="more" href="flow.html">導入の流れを見る</a></div></section><section class="sec white"><div class="wrap"><div class="kick">Vision</div><h2>ひとつの病院の工夫を、<em>すべての病院の力に</em></h2><div class="split"><div><p class="intro" style="margin-top:0">ラマルクを使う医院が増えるほど、できることが広がります。紹介状が検査値と画像ごと届く病院どうしの連携、飼い主さんの手もとの健康手帳、そして地域と医療へ。私たちが描いている構想です。</p></div><div class="ill"><img src="assets/img/ill/evolve.webp" alt="" loading="lazy" width="768" height="512"></div></div><a class="more" href="vision.html">理念と未来像を見る</a></div></section><section class="sec "><div class="wrap"><div class="kick">FAQ</div><h2>よくある質問</h2><div class="faq"><details><summary>今のカルテのデータは移せますか？</summary><p>移す作業はこちらで行います。今お使いのシステムによって取り出せる範囲が違うため、方法は医院さまごとに確認してからご案内します。導入病院では11年分・267万件の診療明細を移しました。</p></details><details><summary>パソコンが得意ではありません。使いこなせますか？</summary><p>システムを覚えていただくより、システムを病院に合わせる考え方で作っています。全部を一度に入れる必要はなく、困っている所から始められます。「ここが不便」と書いていただければ、画面のほうを直します。カルテは話すだけで下書きができ、予約は飼い主さんが LINE で入れます。</p></details><details><summary>要望はどのくらいで反映されますか？</summary><p>小さな改善は数日を目安に試作します。範囲と順番は院長先生と相談して決め、院長先生の承認なしに本番へ入れることはありません。</p></details><details><summary>インターネットが切れたら診療は止まりますか？</summary><p>予備のモバイル回線への切り替え、院内の中継機に置いた大事な記録の控え、紙で診療を続ける手順の3つを標準で用意します。</p></details><details><summary>AI が勝手にカルテを書きませんか？</summary><p>書きません。AI が作るのは下書きだけで、獣医師が画面で確認して確定するまでカルテには入りません。話していない臨床内容を足さない決まりも AI に組み込んでいます。</p></details></div><a class="more" href="faq.html">よくある質問をすべて見る</a></div></section><section class="sec"><div class="wrap"><div class="cta-band">
   <div><div class="kick">Request</div><h2>まずは資料を、<br>LINE で受け取ってください。</h2>
     <p>病院名・院長名・（開業前の方は）開業予定の時期をお送りください。確認のうえ、詳しい資料と画面の動画をお届けします。</p></div>
   <div class="act"><a class="btn w" href="https://line.me/R/ti/p/@310unbcy" rel="noopener">LINE で資料を受け取る</a><a class="btn o" href="request.html">資料請求の流れを見る</a>
